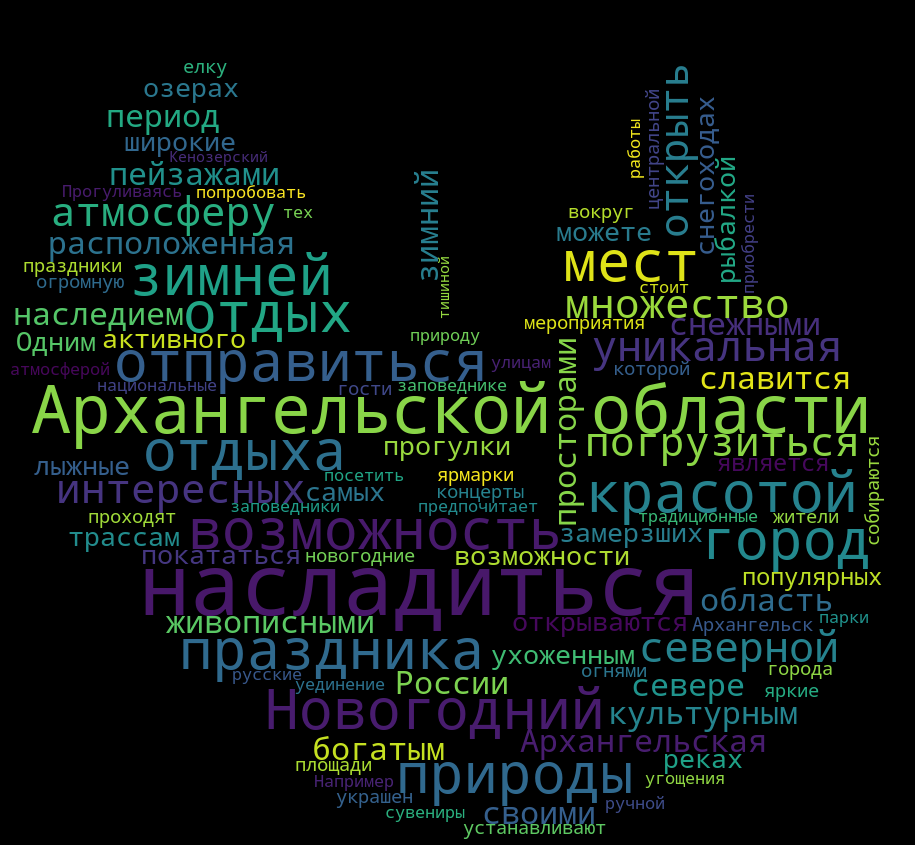
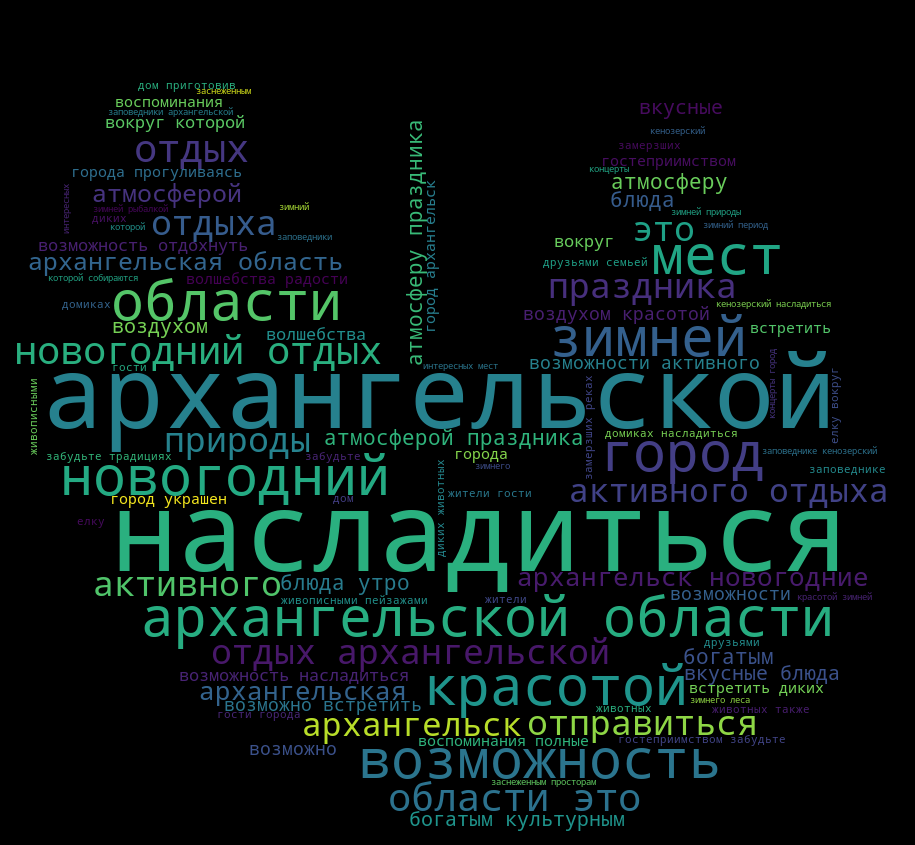
add tf idf

Changed region(s): [[0.0, 0.0615, 0.9792, 1.0]]

diff --git a/main.py b/main.py
@@ -1,9 +1,9 @@
 #!/usr/bin/env python
 """
-Word Cloud with Custom Shape and Stop Words from NLTK
+Word Cloud with Custom Shape and TF-IDF Weights (Including N-grams)
 ========================================================
 
-Generating a word cloud from the US constitution using a custom shape and stop words from NLTK.
+Generating a word cloud from the US constitution using a custom shape and TF-IDF weights, including n-grams.
 """
 import os
 from os import path
@@ -13,8 +13,8 @@ import numpy as np
 from PIL import Image
 import nltk
 from nltk.corpus import stopwords
-import text_module as tm
-
+from sklearn.feature_extraction.text import TfidfVectorizer
+import string
 
 # Загрузка стоп-слов NLTK
 nltk.download('stopwords')
@@ -22,25 +22,50 @@ nltk.download('stopwords')
 # get data directory
 d = path.dirname(__file__) if "__file__" in locals() else os.getcwd()
 
-# Read the whole text.
+# Функция для предварительной обработки текста
+def preprocess_text(text):
+    # Приведение к нижнему регистру
+    text = text.lower()
+    # Удаление пунктуации
+    text = text.translate(str.maketrans('', '', string.punctuation))
+    return text
+
+# Чтение текста
 text = open(path.join(d, 'constitution.txt'), encoding="utf8").read()
-# Load the mask image
+text = preprocess_text(text)  # Предварительная обработка текста
+
+# Загрузка маски
 mask_image = np.array(Image.open(path.join(d, 'black.png')))  # Замените 'black.png' на имя вашего файла маски
 
 # Получение стоп-слов на русском языке
 russian_stopwords = set(stopwords.words('russian'))
 
-# Определение пользовательских стоп-слов (опционально)
-custom_stopwords = set(STOPWORDS).union(russian_stopwords).union({"и", "в", "на", "с", "что", "как", "это", "по", "к", "для", "из", "но", "так", "же", "от", "то", "все", "также"})
+# Определение пользовательских стоп-слов
+custom_stopwords = set(STOPWORDS).union(russian_stopwords)
 
-# Generate a word cloud image with the mask and stop words
+# Преобразование пользовательских стоп-слов в список
+custom_stopwords_list = list(custom_stopwords)
+
+# Применение TF-IDF с учетом биграмм
+vectorizer = TfidfVectorizer(stop_words=custom_stopwords_list, ngram_range=(1, 2))
+tfidf_matrix = vectorizer.fit_transform([text])
+feature_names = vectorizer.get_feature_names_out()
+
+# Получение весов слов и словосочетаний
+weights = dict(zip(feature_names, tfidf_matrix.toarray()[0]))
+
+# Генерация облака слов с учетом весов
 wordcloud = WordCloud(mask=mask_image, contour_color='black', contour_width=1,
-                      stopwords=custom_stopwords, max_words=100).generate(text)
+                      max_words=100, relative_scaling=0, normalize_plurals=False,
+                      colormap='viridis').generate_from_frequencies(weights)  # Использование цветовой схемы
 
-# Display the generated image:
+# Отображение сгенерированного изображения
 plt.imshow(wordcloud, interpolation='bilinear')
 plt.axis("off")
 plt.show()
 
-# Save the word cloud image to a file
-wordcloud.to_file(path.join(d, 'wordcloud_shape.png'))
+# Сохранение изображения облака слов в файл
+output_file = path.join(d, 'wordcloud_shape.png')
+wordcloud.to_file(output_file)
+
+print(f"Облако слов сохранено в файл: {output_file}")
